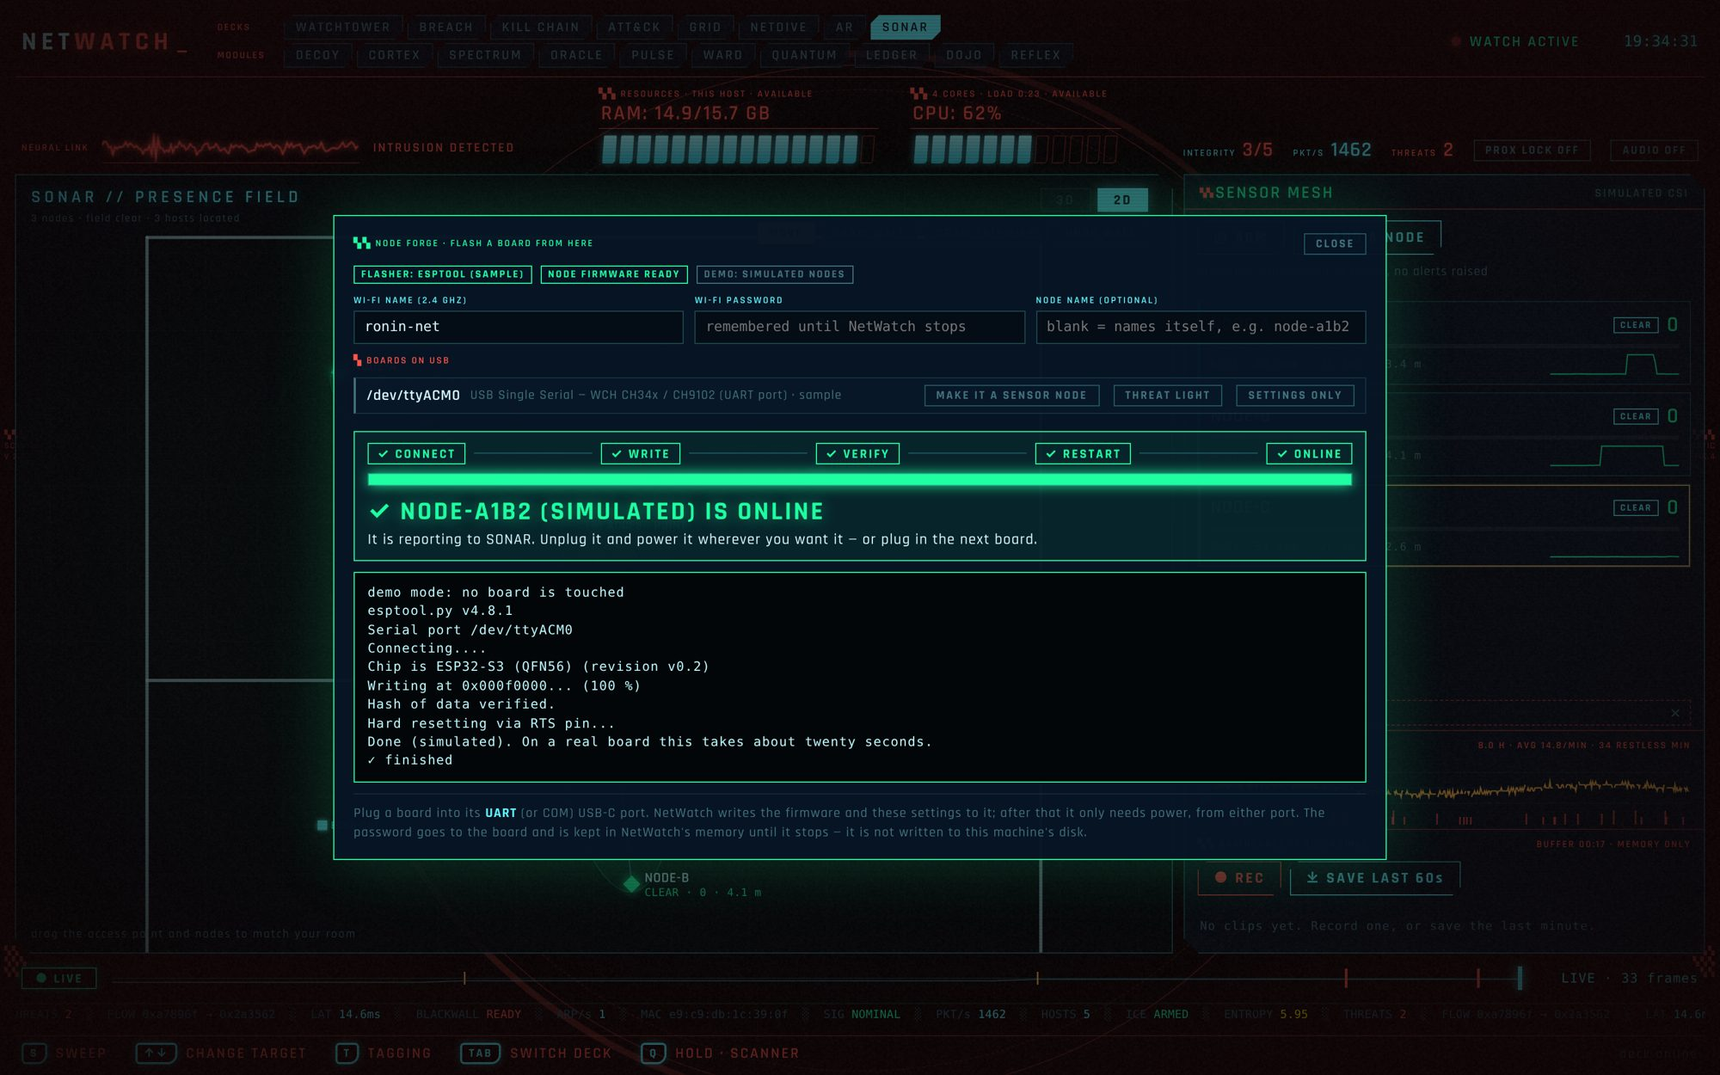
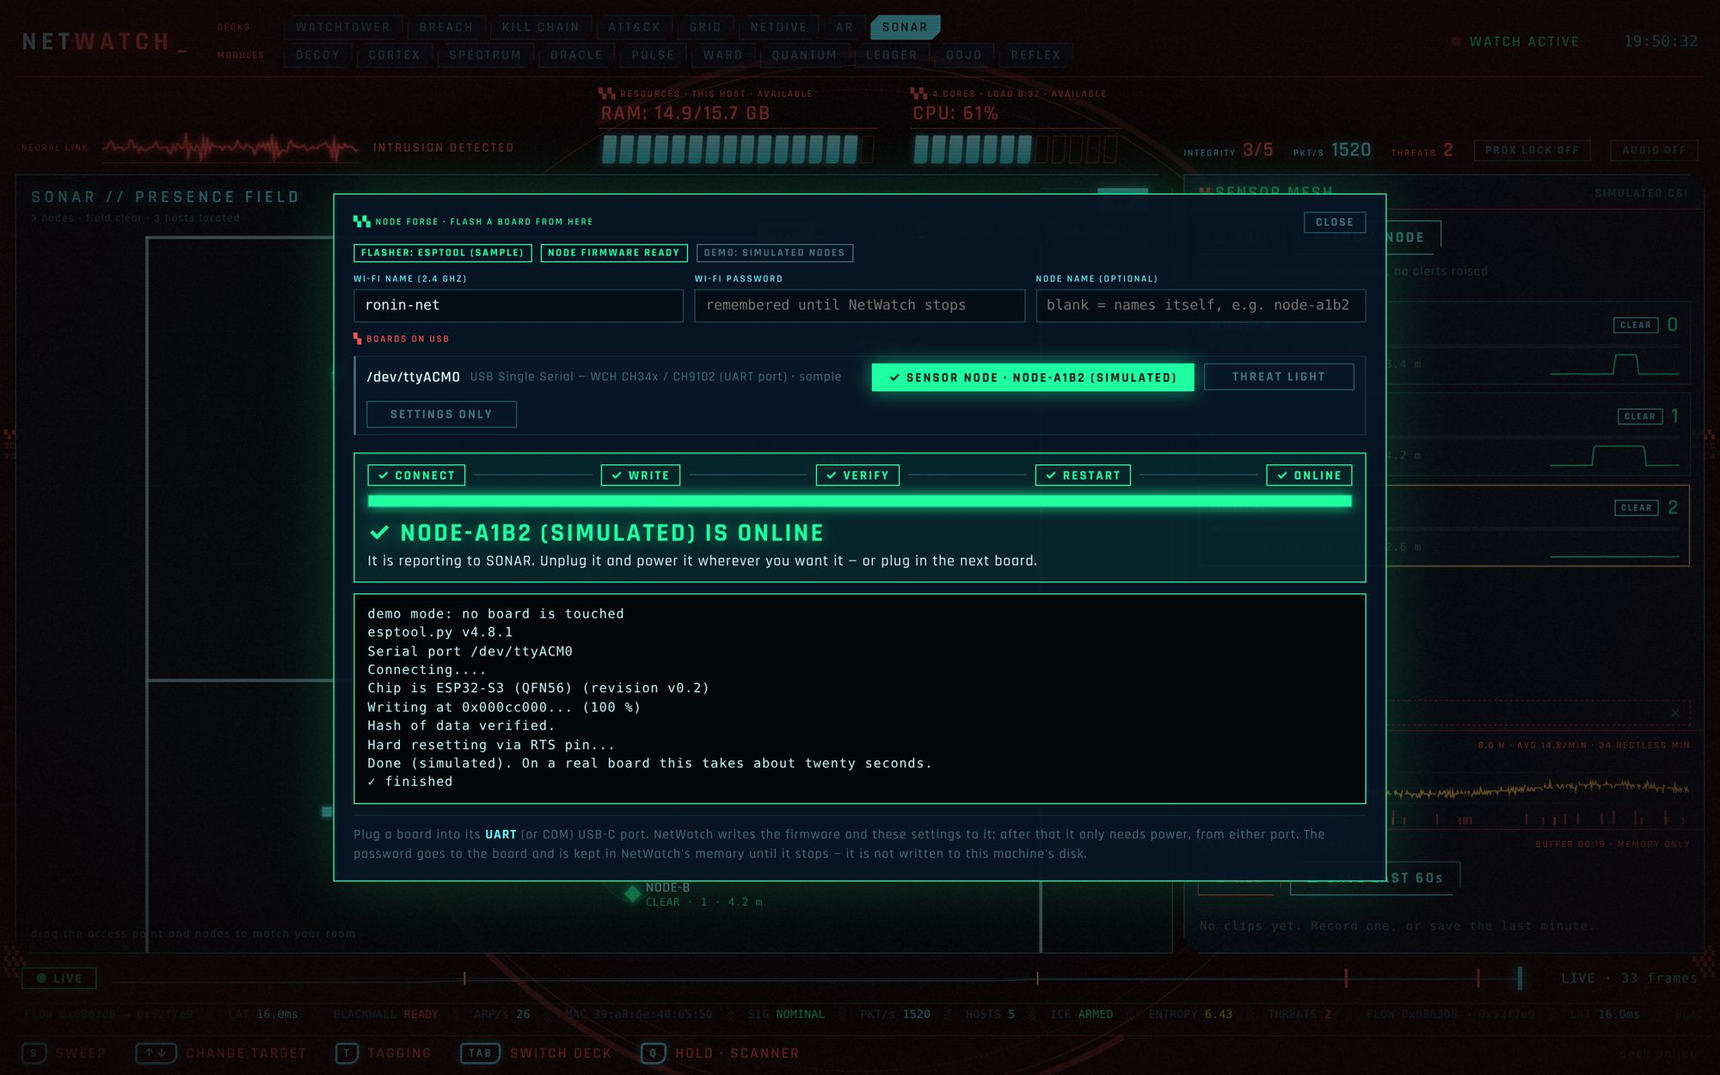
Flash button doubles as a progress bar; find esptool where pipx puts it
- The button pressed to flash a board fills with green as it is written,
  pulses while the board joins Wi-Fi, and turns solid green once the node is
  online. A failed flash stops the fill where it was and turns it red; a
  board that was written but never reports turns it amber. The board list is
  no longer rebuilt on every poll, so the fill animates.
- In-progress colours are cyan and green; amber and red now only mean
  something is wrong.
- esptool is also looked for in ~/.local/bin and pipx's own folder (and the
  invoking user's home under sudo), since pipx does not always put it on PATH.

Claude-Session: https://claude.ai/code/session_01KpN256eKDzNWkjxKUN9h2u

diff --git a/internal/webui/assets/forge.js b/internal/webui/assets/forge.js
@@ -8,20 +8,50 @@ function forgeRender(r) {
   st.push('<span class="m-verdict ' + (img.node && img.node.have ? "ok" : "bad") + '">' + (img.node && img.node.have ? "NODE FIRMWARE READY" : "NO NODE FIRMWARE IN THIS BUILD") + '</span>');
   st.push('<span class="m-verdict ' + (r.listening ? "ok" : "dim") + '">' + (r.listening ? "LISTENING ON " + esc(r.listening) : r.demo ? "DEMO: SIMULATED NODES" : "NOT LISTENING YET") + '</span>');
   if (!r.listening && !r.demo) st.push('<button class="hs-btn" id="fgListen">LISTEN FOR NODES NOW</button>');
-  $("#fgStatus").innerHTML = st.join("") + (r.tool ? "" : '<div class="m-dim">Install it once with <code>pipx install esptool</code> (or <code>sudo apt install esptool</code>), then reopen this panel.</div>');
+  $("#fgStatus").innerHTML = st.join("") + (r.tool ? "" : '<div class="m-dim">NetWatch looked on your PATH and in <code>~/.local/bin</code> and found no <code>esptool</code>. Install it with <code>pipx install esptool</code> (or <code>sudo apt install esptool</code>); this panel notices within a second, no restart needed.</div>');
   if ($("#fgListen")) $("#fgListen").onclick = async () => { await post("/api/forge", { listen: true }); forgeLoad(); };
   if (document.activeElement !== $("#fgSsid") && !$("#fgSsid").value && r.ssid) $("#fgSsid").value = r.ssid;
   $("#fgPass").placeholder = r.havePass ? "remembered until NetWatch stops" : "";
-  const busy = r.job && !r.job.done, box = $("#fgBoards");
-  box.innerHTML = r.boards.length ? r.boards.map((b, i) =>
-    '<div class="m-row' + (b.native ? " warn" : "") + '"><div class="m-row-top"><b>' + esc(b.port) + '</b><span class="m-dim">' + esc(b.chip) + '</span><span class="spacer"></span>' +
-    '<button class="hs-btn" data-k="node" data-i="' + i + '"' + (busy ? " disabled" : "") + '>MAKE IT A SENSOR NODE</button><button class="hs-btn" data-k="light" data-i="' + i + '"' + (busy ? " disabled" : "") + '>THREAT LIGHT</button><button class="hs-btn" data-k="node" data-s="1" data-i="' + i + '"' + (busy ? " disabled" : "") + ' title="keep the firmware, rewrite only the Wi-Fi details">SETTINGS ONLY</button></div>' +
-    (b.native ? '<div class="m-dim">This is the board\'s native USB port. It usually works, but if flashing cannot connect, move the cable to the port marked UART or COM.</div>' : "") + '</div>').join("")
-    : '<div class="m-dim">No board found. Plug one in by its UART port; if it still does not appear, try another cable (many USB-C cables carry power only).</div>';
-  box.querySelectorAll("button").forEach((b) => (b.onclick = () => forgeFlash(r.boards[+b.dataset.i].port, b.dataset.k, !!b.dataset.s)));
+  // The board list is only rebuilt when the boards change, so each button keeps its fill and can animate.
+  const box = $("#fgBoards"), sig = r.boards.map((b) => b.port + "|" + b.chip).join("\n") || "none";
+  if (r.job && !r.boards.some((b) => b.port === r.job.port)) forgeSt.stale = r.job.started; // that board has been unplugged: its result is history
+  if (sig !== forgeSt.sig) {
+    forgeSt.sig = sig;
+    const btn = (k, i, label, extra, title) => '<button class="fg-go' + (extra ? "" : " main") + '" data-k="' + k + '" data-i="' + i + '"' + (extra || "") + (title ? ' title="' + title + '"' : "") + ' data-label="' + label + '"><i></i><span>' + label + '</span></button>';
+    box.innerHTML = r.boards.length ? r.boards.map((b, i) =>
+      '<div class="m-row' + (b.native ? " warn" : "") + '"><div class="m-row-top"><b>' + esc(b.port) + '</b><span class="m-dim">' + esc(b.chip) + '</span><span class="spacer"></span>' +
+      btn("node", i, "MAKE IT A SENSOR NODE") + btn("light", i, "THREAT LIGHT", ' data-x="1"') + btn("node", i, "SETTINGS ONLY", ' data-s="1"', "keep the firmware, rewrite only the Wi-Fi details") + '</div>' +
+      (b.native ? '<div class="m-dim">This is the board\'s native USB port. It usually works, but if flashing cannot connect, move the cable to the port marked UART or COM.</div>' : "") + '</div>').join("")
+      : '<div class="m-dim">No board found. Plug one in by its UART port; if it still does not appear, try another cable (many USB-C cables carry power only).</div>';
+    box.querySelectorAll("button").forEach((b) => (b.onclick = () => { const bd = forgeSt.data.boards[+b.dataset.i]; if (bd) forgeFlash(bd.port, b.dataset.k, !!b.dataset.s); }));
+  }
+  forgeButtons(r);
   forgeProgress(r.job);
   const log = $("#fgLog");
   if (r.job) { log.hidden = false; log.textContent = r.job.lines.join("\n") + (r.job.done ? "\n" + (r.job.ok ? "✓ finished" : "✕ " + r.job.error) : "\n…"); log.className = "fg-log" + (r.job.done ? (r.job.ok ? " ok" : " bad") : ""); log.scrollTop = log.scrollHeight; }
+}
+// How full a board's button is, what colour, and what it says, for a flash job.
+function forgeFill(j) {
+  const reached = j.stage === "write" ? 8 + j.progress * 0.76 : j.stage === "verify" ? 87 : j.stage === "restart" ? 91 : 5;
+  if (!j.done) return { pct: reached, cls: "run", label: j.stage === "write" ? "WRITING " + j.progress + "%" : j.stage === "verify" ? "VERIFYING…" : j.stage === "restart" ? "RESTARTING…" : "CONNECTING…" };
+  if (!j.ok) return { pct: Math.max(10, reached), cls: "bad", label: "✕ FAILED — PRESS TO RETRY" };
+  if (j.kind !== "node") return { pct: 100, cls: "ok", label: "✓ THREAT LIGHT" };
+  if (j.online) return { pct: 100, cls: "ok", label: "✓ SENSOR NODE · " + j.online.toUpperCase() };
+  if (j.stalled) return { pct: 100, cls: "warn", label: "FLASHED · NOT REPORTING" };
+  return { pct: Math.min(99, 92 + j.waitSec), cls: "wait", label: "JOINING WI-FI… " + j.waitSec + " S" };
+}
+// Paint every board button: the one being flashed fills up; the rest wait.
+function forgeButtons(r) {
+  const j = r.job && r.job.started !== forgeSt.stale ? r.job : null, busy = !!(j && !j.done);
+  document.querySelectorAll("#fgBoards .fg-go").forEach((b) => {
+    const bd = r.boards[+b.dataset.i], mine = j && bd && j.port === bd.port && j.kind === b.dataset.k && !!j.settingsOnly === !!b.dataset.s;
+    const f = mine ? forgeFill(j) : { pct: 0, cls: "", label: b.dataset.label }, fill = b.firstChild;
+    b.className = "fg-go" + (b.dataset.s || b.dataset.x ? "" : " main") + (f.cls ? " " + f.cls : "");
+    fill.style.width = f.pct + "%";
+    fill.style.opacity = f.cls === "run" || f.cls === "wait" ? (0.12 + 0.6 * (f.pct / 100)).toFixed(2) : "";
+    b.lastChild.textContent = f.label;
+    b.disabled = busy;
+  });
 }
 // The steps of a flash, what each looks like when it is the current one, and the big result line.
 const FG_STEPS = [["connect", "CONNECT"], ["write", "WRITE"], ["verify", "VERIFY"], ["restart", "RESTART"], ["online", "ONLINE"]];
@@ -79,4 +109,4 @@ EXTRA_COMMANDS.push(async (t) => {
   if (/^(listen|listen for nodes)$/.test(t)) { const r = await post("/api/forge", { listen: true }); return r && r.ok ? "Listening for sensor nodes." : (r && r.error) || "I could not start listening."; }
   return null;
 });
-Object.assign(window.netwatch, { forgeSt, forgeOpen, forgeClose, forgeFlash, forgeLoad, forgeState });
+Object.assign(window.netwatch, { forgeSt, forgeOpen, forgeClose, forgeFlash, forgeLoad, forgeState, forgeFill, forgeRender });

diff --git a/internal/webui/assets/skin2077.css b/internal/webui/assets/skin2077.css
@@ -643,15 +643,35 @@ body.crit-glitch #app { animation: critglitch 0.9s steps(2) 1; }
 .fg-card .m-note { padding: 8px 0 0; } .fg-card .m-note b { color: var(--cyan); }
 .fg-run { display: flex; flex-direction: column; gap: 8px; padding: 10px 12px; border: 1px solid var(--c, var(--cyan)); background: color-mix(in srgb, var(--c, var(--cyan)) 7%, transparent); }
 .fg-run[hidden] { display: none; }
-.fg-run.run, .fg-run.wait { --c: var(--amber); } .fg-run.ok { --c: var(--green); animation: fgdone 0.9s ease-out 1; } .fg-run.bad { --c: var(--red); } .fg-run.warn { --c: var(--amber); }
+.fg-run.run, .fg-run.wait { --c: var(--cyan); } .fg-run.ok { --c: var(--green); animation: fgdone 0.9s ease-out 1; } .fg-run.bad { --c: var(--red); } .fg-run.warn { --c: var(--amber); }
 @keyframes fgdone { 0% { box-shadow: 0 0 0 0 rgba(29, 255, 161, 0.9); } 100% { box-shadow: 0 0 0 26px rgba(29, 255, 161, 0); } }
 .fg-steps { display: flex; align-items: center; gap: 8px; }
 .fg-steps i { flex: 1; height: 1px; background: rgba(94, 246, 255, 0.25); }
 .fg-step { font-size: 12px; font-weight: 700; letter-spacing: 0.14em; color: var(--dim); padding: 1px 8px; border: 1px solid rgba(94, 246, 255, 0.2); white-space: nowrap; }
 .fg-step.done { color: var(--green); border-color: var(--green); }
-.fg-step.now { color: #1a1204; background: var(--amber); border-color: var(--amber); animation: riskpulse 1s ease-in-out infinite; }
+.fg-step.now { color: #04121a; background: var(--cyan); border-color: var(--cyan); animation: riskpulse 1s ease-in-out infinite; }
+.fg-step.now.warn { color: #1a1204; background: var(--amber); border-color: var(--amber); animation: none; }
 .fg-step.now.bad { background: var(--red); border-color: var(--red); animation: none; }
 .fg-bar { flex: none; height: 12px; } .fg-bar i { background: var(--c, var(--cyan)); box-shadow: 0 0 12px var(--c, var(--cyan)); transition: width 0.3s; }
 .fg-banner { display: flex; flex-direction: column; gap: 2px; }
 .fg-banner b { font-size: 24px; font-weight: 700; letter-spacing: 0.08em; color: var(--c, var(--cyan)); text-shadow: 0 0 14px color-mix(in srgb, var(--c, var(--cyan)) 50%, transparent); }
 .fg-banner span { font-size: 14px; color: var(--fg); }
+
+/* ---------- node forge: the button is the progress bar ---------- */
+.fg-go { position: relative; overflow: hidden; cursor: pointer; font-family: var(--ui); font-size: 12px; font-weight: 700; letter-spacing: 0.14em; color: var(--dim); background: transparent;
+  border: 1px solid rgba(94, 246, 255, 0.3); padding: 4px 14px; min-width: 140px; white-space: nowrap; transition: color 0.4s, border-color 0.4s, box-shadow 0.4s; }
+.fg-go.main { min-width: 300px; }
+.fg-go:hover:not(:disabled) { color: var(--cyan-soft); border-color: var(--cyan); }
+.fg-go i { position: absolute; left: 0; top: 0; bottom: 0; width: 0; background: var(--fc, var(--green)); opacity: 0.25; transition: width 0.7s ease, opacity 0.6s, background 0.4s; }
+.fg-go span { position: relative; }
+.fg-go:disabled { cursor: default; }
+.fg-go:disabled:not(.run):not(.wait) { opacity: 0.3; }
+.fg-go.run, .fg-go.wait { color: var(--green); border-color: rgba(29, 255, 161, 0.55); }
+.fg-go.wait i { animation: fgbreathe 1.1s ease-in-out infinite; }
+@keyframes fgbreathe { 50% { filter: brightness(1.7); } }
+.fg-go.ok { color: #04121a; border-color: var(--green); box-shadow: 0 0 18px rgba(29, 255, 161, 0.55); }
+.fg-go.ok i { opacity: 1; }
+.fg-go.bad { --fc: var(--red); color: var(--red); border-color: var(--red); box-shadow: 0 0 14px rgba(255, 84, 73, 0.4); }
+.fg-go.bad i { opacity: 0.4; }
+.fg-go.warn { --fc: var(--amber); color: #1a1204; border-color: var(--amber); }
+.fg-go.warn i { opacity: 0.9; }

diff --git a/internal/server/forge.go b/internal/server/forge.go
@@ -33,6 +33,9 @@ type forgeJob struct {
 	OK    bool     `json:"ok"`
 	Error string   `json:"error"`
 
+	Started      int64 `json:"started"`      // unix ms; tells one flash from the next on the same port
+	SettingsOnly bool  `json:"settingsOnly"` // only the settings were written, not the firmware
+
 	Stage    string `json:"stage"`    // connect | write | verify | restart
 	Progress int    `json:"progress"` // percent written
 	// After a sensor node is flashed NetWatch waits for it to report in.
@@ -174,7 +177,7 @@ func (s *Server) handleForge(w http.ResponseWriter, r *http.Request) {
 		fail(err.Error())
 		return
 	}
-	job := &forgeJob{Port: req.Flash, Kind: req.Kind, Lines: []string{}}
+	job := &forgeJob{Port: req.Flash, Kind: req.Kind, Lines: []string{}, Started: time.Now().UnixMilli(), SettingsOnly: req.SettingsOnly, Stage: "connect"}
 	add := func(line string) {
 		s.mu.Lock()
 		job.track(line)
@@ -207,8 +210,9 @@ func (s *Server) handleForge(w http.ResponseWriter, r *http.Request) {
 		s.mu.Unlock()
 		go func() { // a pretend flash: nothing is run and nothing is written
 			for _, l := range []string{"demo mode: no board is touched", "esptool.py v4.8.1", "Serial port " + req.Flash, "Connecting....", "Chip is ESP32-S3 (QFN56) (revision v0.2)",
-				"Writing at 0x00010000... (25 %)", "Writing at 0x00080000... (70 %)", "Writing at 0x000f0000... (100 %)", "Hash of data verified.", "Hard resetting via RTS pin...", "Done (simulated). On a real board this takes about twenty seconds."} {
-				time.Sleep(350 * time.Millisecond)
+				"Writing at 0x00010000... (8 %)", "Writing at 0x00028000... (21 %)", "Writing at 0x00040000... (34 %)", "Writing at 0x00058000... (47 %)", "Writing at 0x00070000... (60 %)",
+				"Writing at 0x00088000... (73 %)", "Writing at 0x000a0000... (86 %)", "Writing at 0x000cc000... (100 %)", "Hash of data verified.", "Hard resetting via RTS pin...", "Done (simulated). On a real board this takes about twenty seconds."} {
+				time.Sleep(420 * time.Millisecond)
 				add(l)
 			}
 			finish(nil)

diff --git a/internal/forge/forge.go b/internal/forge/forge.go
@@ -80,11 +80,38 @@ func Boards() []Board {
 	return out
 }
 
+// toolDirs lists the places esptool is commonly installed that may not be on
+// PATH: pipx and pip put it in ~/.local/bin, which many shells do not include.
+func toolDirs() []string {
+	var homes []string
+	if h, err := os.UserHomeDir(); err == nil && h != "" {
+		homes = append(homes, h)
+	}
+	if u := os.Getenv("SUDO_USER"); u != "" { // started with sudo: the tool belongs to the person, not to root
+		homes = append(homes, filepath.Join("/home", u))
+	}
+	var dirs []string
+	for _, h := range homes {
+		dirs = append(dirs, filepath.Join(h, ".local", "bin"), filepath.Join(h, ".local", "share", "pipx", "venvs", "esptool", "bin"),
+			filepath.Join(h, ".local", "pipx", "venvs", "esptool", "bin"))
+	}
+	return append(dirs, "/usr/local/bin", "/usr/bin", "/opt/homebrew/bin")
+}
+
 // Tool finds esptool. It returns the command to run and a name to show.
 func Tool() ([]string, string) {
-	for _, name := range []string{"esptool", "esptool.py"} {
+	names := []string{"esptool", "esptool.py"}
+	for _, name := range names {
 		if p, err := exec.LookPath(name); err == nil {
 			return []string{p}, name
+		}
+	}
+	for _, dir := range toolDirs() {
+		for _, name := range names {
+			p := filepath.Join(dir, name)
+			if st, err := os.Stat(p); err == nil && !st.IsDir() && st.Mode()&0o111 != 0 {
+				return []string{p}, name + " (" + dir + ")"
+			}
 		}
 	}
 	if py, err := exec.LookPath("python3"); err == nil && exec.Command(py, "-c", "import esptool").Run() == nil {

diff --git a/internal/forge/forge_test.go b/internal/forge/forge_test.go
@@ -151,3 +151,21 @@ func TestStageReadsBothEsptoolDialects(t *testing.T) {
 		}
 	}
 }
+
+// pipx installs esptool into ~/.local/bin, which is often not on PATH.
+func TestToolIsFoundOffThePath(t *testing.T) {
+	home := t.TempDir()
+	t.Setenv("HOME", home)
+	t.Setenv("PATH", t.TempDir()) // an empty PATH: nothing to find there
+	t.Setenv("SUDO_USER", "")
+	if tool, _ := Tool(); tool != nil && strings.HasPrefix(tool[0], home) {
+		t.Fatalf("found a tool before one was installed: %v", tool)
+	}
+	bin := filepath.Join(home, ".local", "bin")
+	os.MkdirAll(bin, 0o755)
+	os.WriteFile(filepath.Join(bin, "esptool"), []byte("#!/bin/sh\n"), 0o755)
+	tool, name := Tool()
+	if len(tool) != 1 || tool[0] != filepath.Join(bin, "esptool") || !strings.Contains(name, ".local/bin") {
+		t.Errorf("Tool() = %v, %q", tool, name)
+	}
+}

diff --git a/docs/EXPERIMENTAL.md b/docs/EXPERIMENTAL.md
@@ -152,7 +152,7 @@ room to the console.
 | **Who brought that device** | When a new host joins, the last minute of the room is saved as a braindance clip and attached to the alert (▶ ROOM), and CORTEX is told whether anyone was moving. | 🧪 | Handler test; the sample alert in a browser opened its clip | Needs sensor nodes. It shows that someone moved, not who, and not that they carried the device. |
 | **Talking decoy** | A port that imitates a small device's login: refuses the first attempt, lets the second "in", answers a handful of commands from a fixed table and records the conversation with a plain-language summary. | ✅ | A live run: a real session over loopback, transcript and summary recorded, the port reopened after a restart, and the typed password found nowhere on disk | **Nothing typed is ever run** — input is only matched against a table. Passwords are not kept, only their length. Only ever visited by my own scripted client, never by a real intruder or bot. 90 seconds and 16 commands per visit. |
 | **Node forge: flash a board from the console** | Plug in an ESP32-S3, press ADD A NODE in SONAR, type your Wi-Fi details: NetWatch writes the firmware and the board's settings with esptool. Afterwards the board only needs power. | 🧪 | The embedded images pass the real esptool's checks (valid checksum and hash, ESP32-S3); esptool 5.6 accepted NetWatch's exact command line up to opening the port; a stand-in tool confirmed the files and clean-up; the panel ran in a browser in demo mode | **No real board has been flashed by it.** Needs `esptool` installed and `dialout` permission. Linux only (it finds boards through `/sys`). The Wi-Fi password is stored on the board in plain form. |
-| **Flashing feedback** | The flashing panel shows the stage (connect, write, verify, restart, online), a progress bar, and a green ONLINE banner with a chime when the new node's first frames arrive — or says after a minute that it has not reported. | 🧪 | The progress parser is tested against esptool 4 and 5 output; the online and stalled cases ran with a scripted node over loopback; the panel ran in a browser in demo mode | The percentages come from reading esptool's text, which could change. Never seen with a real board. |
+| **Flashing feedback** | The button you press becomes the progress bar — filling green, solid green when the node is online, red where it stopped if the flash failed, amber if the board never reports. The panel also shows the stage (connect, write, verify, restart, online), a progress bar, and a green ONLINE banner with a chime when the new node's first frames arrive — or says after a minute that it has not reported. | 🧪 | The progress parser is tested against esptool 4 and 5 output; the online and stalled cases ran with a scripted node over loopback; the panel ran in a browser in demo mode | The percentages come from reading esptool's text, which could change. Never seen with a real board. |
 | **Node status light** | The board's RGB LED blinks blue while joining Wi-Fi, shows green once streaming, blinks red when it cannot join and purple with no settings. | 🔧 | Compiles in CI; never run | Assumes the LED is on GPIO48 or GPIO38 (Espressif DevKitC-1). Other boards may stay dark. |
 | **Firmware built in CI** | Both firmware projects are compiled by a GitHub Actions workflow and the images committed where the binary embeds them. | ✅ | Two CI runs: the first found two errors, the second built both projects | Compiling is not running: neither image has booted on a board. |
 | **Board settings partition and console discovery** | The firmware reads Wi-Fi details, console address and node name from a small flash partition, and asks the network where NetWatch is every 15 s. | 🔧 | Compiles; never run. NetWatch's side (answering a node's hello, hearing its frames, listening without a flag) ran over loopback UDP with a scripted node | — |

diff --git a/docs/GUIDE.md b/docs/GUIDE.md
@@ -635,7 +635,9 @@ expect to find problems the first time, and tell me what the board logs.
 
 ![Node forge](screens/forge.jpg)
 
-You need `esptool` once (`pipx install esptool`, or `sudo apt install esptool`)
+You need `esptool` once (`pipx install esptool`, or `sudo apt install esptool`;
+NetWatch looks on your PATH and in `~/.local/bin` and pipx's own folder, so it
+does not matter whether pipx put it on the PATH)
 and your user in the `dialout` group (`sudo usermod -aG dialout $USER`, then
 log out and in).
 
@@ -647,7 +649,12 @@ log out and in).
 3. Type your Wi-Fi name and password (2.4 GHz only) and press **MAKE IT A
    SENSOR NODE**. If it cannot connect, hold the board's **BOOT** button, tap
    **RESET**, release BOOT and try again.
-4. Watch the panel. The steps light up in turn — **CONNECT → WRITE → VERIFY →
+4. Watch the button you pressed: it is the progress bar. It fills with green
+   as the board is written, pulses while the board joins your Wi-Fi, and turns
+   solid green reading **✓ SENSOR NODE · NODE-A1B2** when the node is online.
+   If the flash fails it stops where it was and turns red (**✕ FAILED — PRESS
+   TO RETRY**); if the board was written but never reports, it turns amber.
+   Below it, the steps light up in turn — **CONNECT → WRITE → VERIFY →
    RESTART → ONLINE** — with a bar that fills while it writes (about twenty
    seconds). Leave the cable in: the board restarts, joins your Wi-Fi, and
    when its first frames arrive the panel turns green, says **✓ NODE-A1B2 IS
@@ -827,6 +834,7 @@ can read your alerts and the SONAR view over your network.
 | SPECTRUM is empty | No sensor nodes are reporting, or their firmware predates access-point reporting. |
 | WARD stays on LEARNING | It needs 300 observations *and* 24 hours per device, and live capture. |
 | PULSE flags you | Your rhythm changed (another keyboard, one hand). FORGET PROFILE and enrol again. |
+| The panel says esptool is not installed, but it is | NetWatch could not find it on your PATH, in `~/.local/bin` or in pipx's folder. Run `pipx ensurepath`, open a new terminal and start NetWatch from it. |
 | ADD A NODE shows no board | The cable carries power only, the board is on a port NetWatch does not recognise, or you are not in the `dialout` group. |
 | Flashing fails to connect | Hold BOOT, tap RESET, release BOOT, and try again; or move the cable to the UART port. |
 | The panel says FLASHED, BUT IT HAS NOT REPORTED IN | The board's light blinking red means it cannot join the Wi-Fi: fix the details and press SETTINGS ONLY. Green but not reported means something between it and NetWatch is blocking UDP 5566. |
